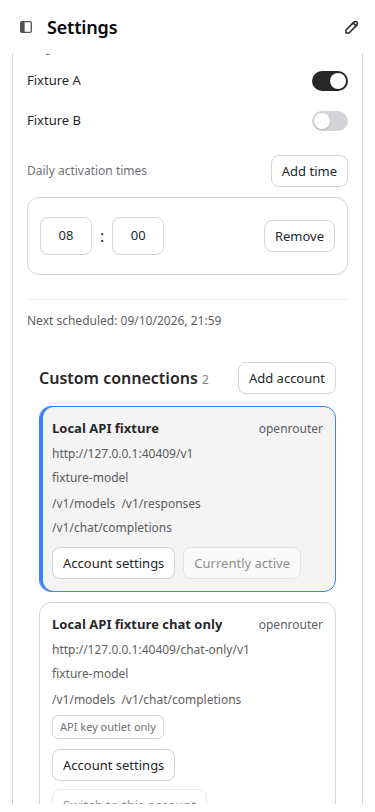
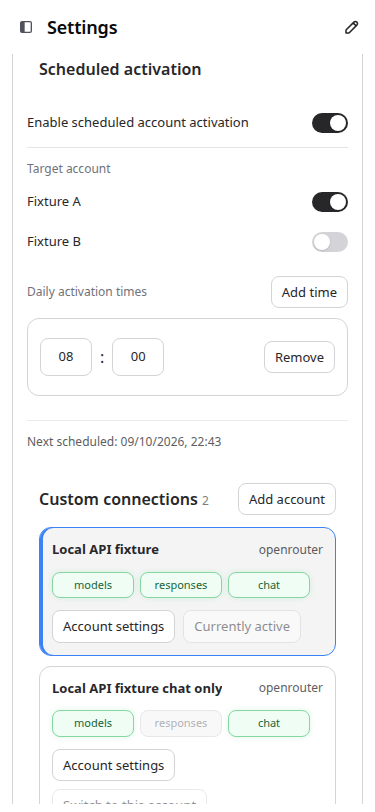
Document 0.2.17 account UI and activation follow-up acceptance

diff --git a/docs/plans/20260910-0016-codexapp-0.2.17开发与59001验收.md b/docs/plans/20260910-0016-codexapp-0.2.17开发与59001验收.md
@@ -6,7 +6,7 @@ status: 候选验收完成
 
 # CodexApp 0.2.17
 
-0.2.17 已在 `http://192.168.50.46:59001/` 运行。开发分支 `feature/0.2.17-development`，起点 `1f35011`，最终代码提交 `89610d9`。容器 `codexapp-multi-account-dev` 使用独立数据卷 `codexapp-multi-account-dev-home`；开发前完整备份卷为 `codexapp-0217-before-home`。
+0.2.17 已在 `http://192.168.50.46:59001/` 运行。开发分支 `feature/0.2.17-development`，起点 `1f35011`，本轮代码提交 `587d1e1`（限额布局/主题图标：`bf3bb0f`；新增连接：`1772e42`；激活上下文：`39278e8`；账号 UI：`e23ceb6`）。容器 `codexapp-multi-account-dev` 使用独立数据卷 `codexapp-multi-account-dev-home`；开发前完整备份卷为 `codexapp-0217-before-home`。
 
 生产 5900 未更新：仍为 0.2.16，systemd MainPID `2559244`，发布路径 `/home/docker/codexapp-releases/codexapp-0.2.16-65733869c5e5-20260910-184328/`。没有执行生产切换、发布或合并。
 
@@ -16,9 +16,9 @@ status: 候选验收完成
 - 目标窗口删除指定说明和预算折叠说明。无单位预算按 1 token，支持 k/M/B；中文占位符为 `100、2k、30M、0.4B；留空不设预算`。用整数算法处理缩写，避免大数精度丢失。修复 Thinking 活动标签与推理强度设置混用的问题。
 - 定时激活即时保存，账号和时间分栏，下方显示下次计划。按账号串行创建私有 CODEX_HOME 与空目录，显式注入固定账号凭据、发送 `hi`，等回合完成后延迟 120 秒，结束专属进程并删除全部私有数据；不使用共享登录文件，不刷新目标凭据，不更改主账号选择。去掉保存计划、刷新结果按钮。
 - “自定义连接”与 OpenAI 账号平级，提供卡片、别名和统一添加/编辑窗口。提供 OpenRouter、DeepSeek、OpenCode、自定义 Base URL；支持模型目录及手动模型名。密钥单独保存，卡片及列表不返回密钥。
-- 测试连接分别探测 `/v1/models`、`/v1/responses`、`/v1/chat/completions`，保存成功端点，再次测试可刷新模型和能力。仅支持 Chat 的卡片显示“仅 API key 出口”，切换禁用，也不进入 Codex 自动化账号选项。API key 可选择它，只开放通过检测的接口；未支持的端点返回 404，不转为另一种协议。当前不开放自定义连接 compact/WebSocket。
+- 测试连接分别探测 `/v1/models`、`/v1/responses`、`/v1/chat/completions`，保存成功端点，再次测试可刷新模型和能力。卡片固定显示 models / responses / chat 三个带框状态，支持项点亮、未支持项灰暗；取消“仅 API key 出口”标记，缺少 Responses 时切换禁用，也不进入 Codex 自动化账号选项。API key 可选择它，只开放通过检测的接口；未支持的端点返回 404，不转为另一种协议。当前不开放自定义连接 compact/WebSocket。
 - 支持 Responses 的自定义连接可用于对话、目标、自动化和 API key。运行进程按连接绑定，使用独立内部凭据与版本地址；真实上游密钥不进入进程参数。OpenAI 协调器的凭据选择、配额保护、出口和切换约束沿用原路径。
-- 没有明确 reasoning/Fast 能力时，模型控件显示 N/A，滑条灰化且不可拖动；目标、自动化及默认设置的对应选择禁用。若模型声明能力，使用其原始值；缺失能力的参数在最终出站时也会剔除。
+- 没有明确 reasoning/Fast 能力时，模型控件保留“推理强度”标题，右侧值显示 N/A，滑条灰化且不可拖动；目标、自动化及默认设置的对应选择禁用。若模型声明能力，使用其原始值；缺失能力的参数在最终出站时也会剔除。
 - 侧栏左上角恢复绿色闪电“应用 / 插件 / 技能 / MCP”；集成去掉重复入口。POST 与 Telegram 平级，精简说明，POST 保存/测试位于免打扰上方；Telegram 两个文本框、两个按钮，授权 ID 占位符第三行为 `*`。调整各处布尔控件为 toggle switch，中英文同步。
 
 开发过程中修复了原生自定义会话测试发现的热重载问题：保留的执行桥与新中间件曾持有不同连接存储。现在按 CODEX_HOME 共享存储身份，并更新执行桥版本；新增模块重载回归测试。
@@ -80,7 +80,7 @@ POST/Telegram：1440×1000，中英文与明暗主题。
 ![中文浅色通知设置](assets/0.2.17/0217-integrations-1440-light-zh-CN.png)
 ![英文深色通知设置](assets/0.2.17/0217-integrations-1440-dark-en.png)
 
-自定义连接：375×812 英文浅色、768×1024 中文深色；Chat-only 标记与禁用切换。
+自定义连接：375×812 英文浅色、768×1024 中文深色；固定端点状态与禁用切换。
 
 ![窄屏账号卡](assets/0.2.17/0217-connections-375-light-en.png)
 ![平板账号卡](assets/0.2.17/0217-connections-768-dark-zh-CN.png)
@@ -106,6 +106,68 @@ CODEXAPP_REPLACE_DEV=1 CODEXAPP_MULTI_ACCOUNT_IMAGE=codexapp-multi-account-dev:u
 CODEXAPP_NATIVE_TEST_URL=http://127.0.0.1:59095 CODEXAPP_NATIVE_TEST_CONTAINER=codexapp-0217-native-custom node output/0217/native-custom.cjs
 ```
 
[2 lines of base64/hex data omitted]
 
-清理范围仅本次验收容器 59091–59095 及其专用数据卷；保留 4173 验证服务、59001 候选、5900 生产和开发前备份卷。详细清理核对结果见 `output/0217/cleanup.json`。若需恢复开发前数据，应先停用并停止 59001，再由独立备份卷恢复；不得把备份写入生产 CODEX_HOME。
+清理范围仅本次验收容器 59091–59095 及其专用数据卷；保留 4173 验证服务、59001 候选、5900 生产和开发前备份卷。初轮清理核对见 `output/0217/cleanup.json`，本轮四个认证样本容器复核后的清理见 `output/0217/followup-cleanup.json`。若需恢复开发前数据，应先停用并停止 59001，再由独立备份卷恢复；不得把备份写入生产 CODEX_HOME。
+
+
+## 账号 UI 与激活上下文复核
+
+本轮根据实际账号弹出区截图调整：
+
+- OpenAI 和自定义连接移入同一个滚动容器，OpenAI 在上；固定页脚只保留版本及全局设置。三种宽度均只有一个内部纵向滚动条，两类卡片不再相互挤占固定区域。
+- 自定义连接添加/编辑窗口的字段、间距和底栏一致：左侧测试连接，右侧取消/移除与确定；卡片隐藏 URL、模型名，始终显示三个端点指示块。账号设置仍能查看并编辑地址、模型。
+- OpenAI 别名输入框移除示例和小字说明，保护说明精简为“保护值范围内的主额度仅限受保护任务使用”；API key 状态切换按钮统一空格和大小写，实测中文宽度一致。新增/变更文案均同步英文，补齐 Alias 与 Confirm。
+- 浅色“应用”增加与其他入口一致的绿色背景/边框，深色同步；跟随系统图标使用 [Lucide SunMoon](https://lucide.dev/icons/sun-moon)，显示尺寸 16px、描边 1.7、圆角端点与相邻图标一致，颜色随主题继承。系统深浅切换实际触发页面配色变化；内联 SVG 不新增依赖或网络请求。
+- 5h 窗口排在 7 天/30 天前，显示 `5小时限额` / `5h limit`；长周期使用 `7天限额` / `7-days limit`、`30天限额` / `30-days limit`。使用共享子网格按当前卡片最长标签自适应列宽，保留 7px 间距，其余宽度交给进度条，手机端 `30-days limit` 单行且不覆盖进度条。实测 30 天卡片在 375px 宽度下的中/英文进度条为 153.5/138.2px，桌面为 194.5/179.2px；两行起止位置对齐，标签列分别约 50.3/65.6px。
+
+### 激活上下文与启动时序
+
+实测发现空目录仍可能继承父项目 AGENTS.md；已给激活专属进程关闭项目说明读取、环境上下文、宿主技能发现及非必要工具功能，并限制技能目录预算。配置仅通过此进程的启动参数传入，不写入主运行时配置。`project_doc_max_bytes` 的含义参考 [OpenAI 官方配置文档](https://learn.chatgpt.com/docs/config-file/config-reference)。
+
+真实 CLI 0.153.4 + 本地 Responses SSE 测试中，用户消息严格只有 `hi`，空工作目录无文件，父目录长 AGENTS.md 哨兵不出现在请求中。输入 JSON 从 19932 降至 8379 字符，减少约 58%；仍含 CLI 基础工具/权限说明，不声称零上下文，也未把模拟 usage 当作实际计费 Token。账号 B 固定凭据实际到达本地上游，账号 A 的认证与当前选择哨兵逐字节不变；专属进程退出、私有目录删除。
+
+另发现 CLI 初次 thread/read 可暂时返回 `interrupted`，但 completedAt 和 error 均为 null；此时回合尚未挂接到活动状态。现在继续等待，只有有完成时间或错误的失败状态才结束。原生回归连续 8 轮通过，单元样本也覆盖“暂时中断 → 运行中 → 完成”。默认清理等待仍为完成后 120 秒。
+
+```bash
+CODEXAPP_NATIVE_ACTIVATION_TEST=1 pnpm exec vitest run src/server/accountActivationSession.native.test.ts src/server/accountActivationSession.test.ts src/server/accountActivationScheduler.test.ts src/i18n/translateSource.test.ts
+pnpm exec vue-tsc --noEmit
+node output/0217/followup-layout.cjs
+node output/0217/api-ui.cjs
+```
+
+4 文件/17 用例通过。界面使用 Playwright CJS，因为需要多账号端点样本拦截和 localStorage/系统主题控制；本机没有 Browser Use 工具。测试 URL `http://127.0.0.1:4173/#/settings`（真实账号弹出区、添加和编辑窗口）；1440×1000、375×812、768×1024 均检查浅深色、中英文，并等待 2.3 秒截图。所有组合单滚动条、按钮左右排列、长限额标签不换行、系统主题切换和页面错误断言通过。
+
+性能：本轮样本从设置页启动到连续两次展开账号区，共 3 次连接列表读取；字段排布和状态指示块不新增请求，滚动/端点状态展示为本地渲染，账号限额最多两项排序。激活仍按账号串行、每 2 秒读取本次回合，没有扩大任务扇出；上下文 JSON 大小采用实际 CLI 请求测量。
+
+原始报告：`/home/Code/codexapp/output/0217/followup-layout.json`、`native-fixed-1.log` 至 `native-fixed-8.log`、`followup-typecheck.log`、`followup-api-ui.log`。截图绝对目录 `/home/Code/codexapp/output/playwright/`，下列文件名与归档副本一致。
+
+![浅色账号区顶部](assets/0.2.17/0217-followup-popover-top-1440-light.png)
+![深色端点状态](assets/0.2.17/0217-followup-popover-1440-dark.png)
+![手机中文小时限额](assets/0.2.17/0217-followup-popover-top-375-light.png)
+![手机英文长标签](assets/0.2.17/0217-followup-popover-top-375-dark.png)
+![手机英文账号设置](assets/0.2.17/0217-followup-edit-375-dark.png)
+![手机中文添加账号](assets/0.2.17/0217-followup-add-375-light.png)
+![推理强度标题与 N/A 值](assets/0.2.17/0217-custom-na-1440.png)
+
+SunMoon 浅深色截图取自 `http://127.0.0.1:4173/#/settings`，1440×1000 页面中的实际侧栏控制栏；不是图标样板。
+
+![浅色 SunMoon](assets/0.2.17/0217-followup-sunmoon-light.png)
+![深色 SunMoon](assets/0.2.17/0217-followup-sunmoon-dark.png)
+
+
+### 新增自定义连接误报切换
+
+原因：新增配置保存曾无条件调用 `beginProviderChange()`，而该检查的 `isAccountOperationInProgress()` 同时涵盖后台额度/凭据刷新。因此，即使没有手动切换账号，检测端点成功后保存也可能被拒绝，并显示误导的“账号或供应方正在切换”。
+
+修复仅让**新增配置**绕过提供方切换检查；已有连接的切换、编辑、移除及使用中保护保持原路径。新增仍通过配置存储自己的串行写队列，不改主账号凭据，也不自动选择新连接。真实 HTTP 中间件回归保持 OpenAI 额度刷新未结束、确认没有切换阻塞，完成三端点测试和落盘保存，再核对主凭据、OpenAI 选择、自定义选择均不变；同时确认提供方选择仍受原检查约束。
+
+```bash
+pnpm exec vitest run src/server/customConnectionAdmission.test.ts src/server/customConnectionStore.test.ts src/server/deliveryBridge.test.ts src/server/accountRuntimeIntegration.test.ts
+```
+
+4 文件/16 用例通过；新增保存不增加上游探测、不申请 OpenAI 身份变更锁，避免无关后台工作造成等待。
+
+最终中文改为“5小时限额”，英文保持“5h limit”；翻译回归 1 文件/8 用例、类型检查和完整构建通过。最终部署日志 `output/0217/final-label-deploy.log`，两次追加更新均经过原有 drain/idle 检查。`artifacts.json` 核对全部 27 个安装文件一致；候选认证文件部署前后 SHA-256 一致，包内 CJS 入口和实际 PTY 均通过。
+
+最终镜像再次完成 59091–59094 的无认证、无效认证、损坏认证和 Zen → OpenRouter 安装包矩阵；无效认证错误刷新后保留、浅深色重复 overlay 为 0。日志为 `final-auth-matrix.log`、`final-auth-ui.log`、`final-auth-other-ui.log`，四个临时容器和专用卷均已清理，端口监听消失。59001 只读实测 SunMoon 与系统主题联动、单滚动条、三端点状态、插件重访 0 次请求通过；当时真实账号只返回 7 天/30 天窗口，5 小时窗口使用双窗口样本验证，不主动刷新或修改真实额度。
